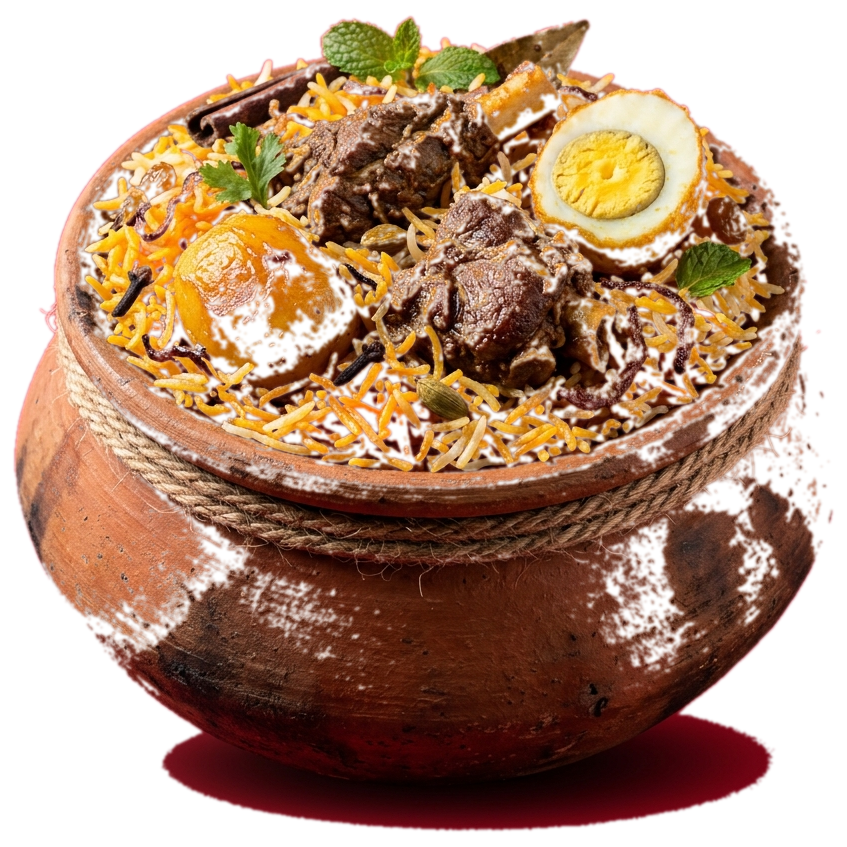
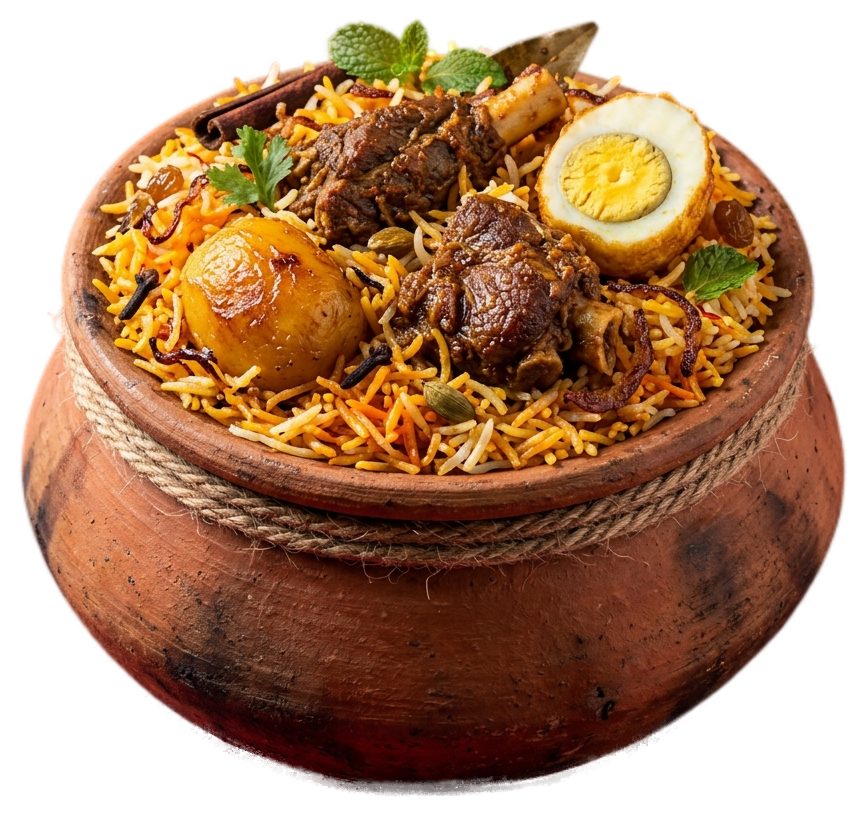
fix(images): replace chicken cutout with clean flame-grilled piece and polish card stage padding

diff --git a/components/DishCard.tsx b/components/DishCard.tsx
@@ -36,21 +36,21 @@ export default function DishCard({ item }: DishCardProps) {
     <motion.article
       onMouseEnter={() => setIsHovered(true)}
       onMouseLeave={() => setIsHovered(false)}
-      whileHover={{ y: -8 }}
-      transition={{ duration: 0.3, ease: 'easeOut' }}
-      className="group relative bg-white rounded-[28px] overflow-hidden border border-neutral-200/70 shadow-[0_4px_24px_-4px_rgba(0,0,0,0.04)] hover:shadow-[0_28px_50px_-12px_rgba(200,16,46,0.18)] hover:border-brand-red/40 transition-all duration-300 flex flex-col justify-between"
+      whileHover={{ y: -6 }}
+      transition={{ duration: 0.25, ease: 'easeOut' }}
+      className="group relative bg-white rounded-[28px] overflow-hidden border border-neutral-200/80 shadow-[0_4px_20px_-4px_rgba(0,0,0,0.05)] hover:shadow-[0_24px_48px_-12px_rgba(200,16,46,0.16)] hover:border-brand-red/30 transition-all duration-300 flex flex-col justify-between"
       data-dish={item.name}
     >
-      {/* 1. Luxurious 3D Floating Food Stage */}
-      <div className="relative w-full overflow-hidden bg-gradient-to-b from-neutral-100/90 via-neutral-50/60 to-white pt-6 pb-4 px-4 flex flex-col items-center justify-center min-h-[200px] sm:min-h-[220px]">
+      {/* 1. Spacious Clean 3D Food Stage (No clipping, completely visible) */}
+      <div className="relative w-full h-52 sm:h-56 bg-gradient-to-b from-neutral-50 via-neutral-100/40 to-white flex flex-col items-center justify-center p-3 pt-4">
         
-        {/* Warm Ambient Spotlight Halo behind Dish */}
-        <div className="absolute top-1/2 left-1/2 -translate-x-1/2 -translate-y-1/2 w-40 h-40 sm:w-48 sm:h-48 rounded-full bg-radial from-amber-400/20 via-brand-red/10 to-transparent blur-2xl opacity-40 group-hover:opacity-100 group-hover:scale-125 transition-all duration-500 pointer-events-none" />
+        {/* Soft Warm Backlight Spotlight */}
+        <div className="absolute top-1/2 left-1/2 -translate-x-1/2 -translate-y-1/2 w-44 h-44 rounded-full bg-radial from-amber-400/15 via-orange-500/5 to-transparent blur-xl opacity-60 group-hover:opacity-100 group-hover:scale-125 transition-all duration-500 pointer-events-none" />
 
         {/* Top Left: Bestseller / Category Tag */}
         {item.tag && (
-          <div className="absolute top-3 left-3 z-20">
-            <span className="inline-flex items-center gap-1 text-[10px] font-black uppercase tracking-wider px-2.5 py-1 rounded-full bg-neutral-950/80 backdrop-blur-md text-white border border-white/20 shadow-sm">
+          <div className="absolute top-3.5 left-3.5 z-20">
+            <span className="inline-flex items-center gap-1 text-[10px] font-black uppercase tracking-wider px-2.5 py-1 rounded-full bg-neutral-900/90 backdrop-blur-md text-white border border-white/20 shadow-xs">
               <Flame className="w-3 h-3 text-amber-400 fill-amber-400" />
               {item.tag}
             </span>
@@ -65,52 +65,52 @@ export default function DishCard({ item }: DishCardProps) {
               openCustomizer(item)
             }}
             type="button"
-            className="absolute top-3 right-3 z-20 w-8 h-8 rounded-full bg-white/90 hover:bg-white text-neutral-800 flex items-center justify-center shadow-md backdrop-blur-md border border-neutral-200/80 hover:scale-110 active:scale-95 transition-all"
+            className="absolute top-3.5 right-3.5 z-20 w-8 h-8 rounded-full bg-white text-neutral-700 hover:text-brand-red flex items-center justify-center shadow-md border border-neutral-200/80 hover:scale-110 active:scale-95 transition-all"
             title="Customize spices & add-ons"
           >
-            <SlidersHorizontal className="w-3.5 h-3.5 text-brand-red" />
+            <SlidersHorizontal className="w-3.5 h-3.5" />
           </button>
         )}
 
-        {/* 3D Floating Transparent Dish with Realistic Spring Physics & Tilt */}
+        {/* 3D Floating Food Cutout (Preserving full aspect ratio & no cropped edges) */}
         <motion.div
           animate={{
-            scale: isHovered ? 1.15 : 1,
-            y: isHovered ? -10 : 0,
-            rotate: isHovered ? -2.5 : 0,
+            scale: isHovered ? 1.08 : 1,
+            y: isHovered ? -6 : 0,
+            rotate: isHovered ? -1.5 : 0,
           }}
           transition={{
             type: 'spring',
-            stiffness: 380,
-            damping: 18,
+            stiffness: 350,
+            damping: 22,
           }}
-          className="relative w-32 h-32 sm:w-40 sm:h-40 md:w-44 md:h-44 flex items-center justify-center z-10 cursor-pointer"
+          className="relative w-36 h-36 sm:w-40 sm:h-40 md:w-44 md:h-44 flex items-center justify-center z-10 select-none p-1"
         >
           <img
             src={item.image}
             alt={item.name}
-            className="w-full h-full object-contain filter drop-shadow-[0_14px_20px_rgba(0,0,0,0.32)] group-hover:drop-shadow-[0_28px_36px_rgba(0,0,0,0.48)] transition-all duration-300"
+            className="max-w-full max-h-full object-contain filter drop-shadow-[0_12px_16px_rgba(0,0,0,0.28)] group-hover:drop-shadow-[0_20px_26px_rgba(0,0,0,0.42)] transition-all duration-300"
           />
         </motion.div>
 
         {/* Realistic Ground Contact Shadow */}
-        <div className="w-28 sm:w-36 h-3 bg-black/25 rounded-full blur-[4px] opacity-75 group-hover:opacity-20 group-hover:scale-135 group-hover:blur-[6px] transition-all duration-300 mt-1 pointer-events-none" />
+        <div className="w-28 sm:w-36 h-2.5 bg-black/20 rounded-full blur-[3px] opacity-70 group-hover:opacity-30 group-hover:scale-125 transition-all duration-300 pointer-events-none" />
 
         {/* Floating Servings Badge on Bottom-Right */}
         <div className="absolute bottom-2.5 right-3 z-20 pointer-events-none">
-          <span className="text-[10px] font-bold text-neutral-600 bg-white/90 backdrop-blur-md px-2.5 py-0.5 rounded-full border border-neutral-200/80 shadow-xs">
+          <span className="text-[10px] font-bold text-neutral-600 bg-white/95 backdrop-blur-md px-2.5 py-0.5 rounded-full border border-neutral-200 shadow-xs">
             {selectedPortion.serves}
           </span>
         </div>
       </div>
 
       {/* 2. Content & Details */}
-      <div className="p-4 sm:p-5 flex-1 flex flex-col justify-between space-y-4">
+      <div className="p-4 sm:p-5 flex-1 flex flex-col justify-between space-y-3.5 border-t border-neutral-100/80">
         <div>
           {/* Header Row: Title & Dynamic Price */}
           <div className="flex items-start justify-between gap-2">
             <div>
-              <h3 className="font-display font-black text-[16px] sm:text-[17px] text-neutral-900 group-hover:text-brand-red transition-colors leading-snug">
+              <h3 className="font-display font-black text-[15px] sm:text-[16px] text-neutral-900 group-hover:text-brand-red transition-colors leading-snug">
                 {item.name}
               </h3>
               {item.nameBn && (
@@ -140,8 +140,8 @@ export default function DishCard({ item }: DishCardProps) {
             </div>
           </div>
 
-          {/* Minimalist 2-Line Editorial Description */}
-          <p className="text-xs text-neutral-500 line-clamp-2 leading-relaxed mt-2">
+          {/* 2-Line Appetizing Description */}
+          <p className="text-xs text-neutral-500 line-clamp-2 leading-relaxed mt-1.5">
             {item.description}
           </p>
         </div>
